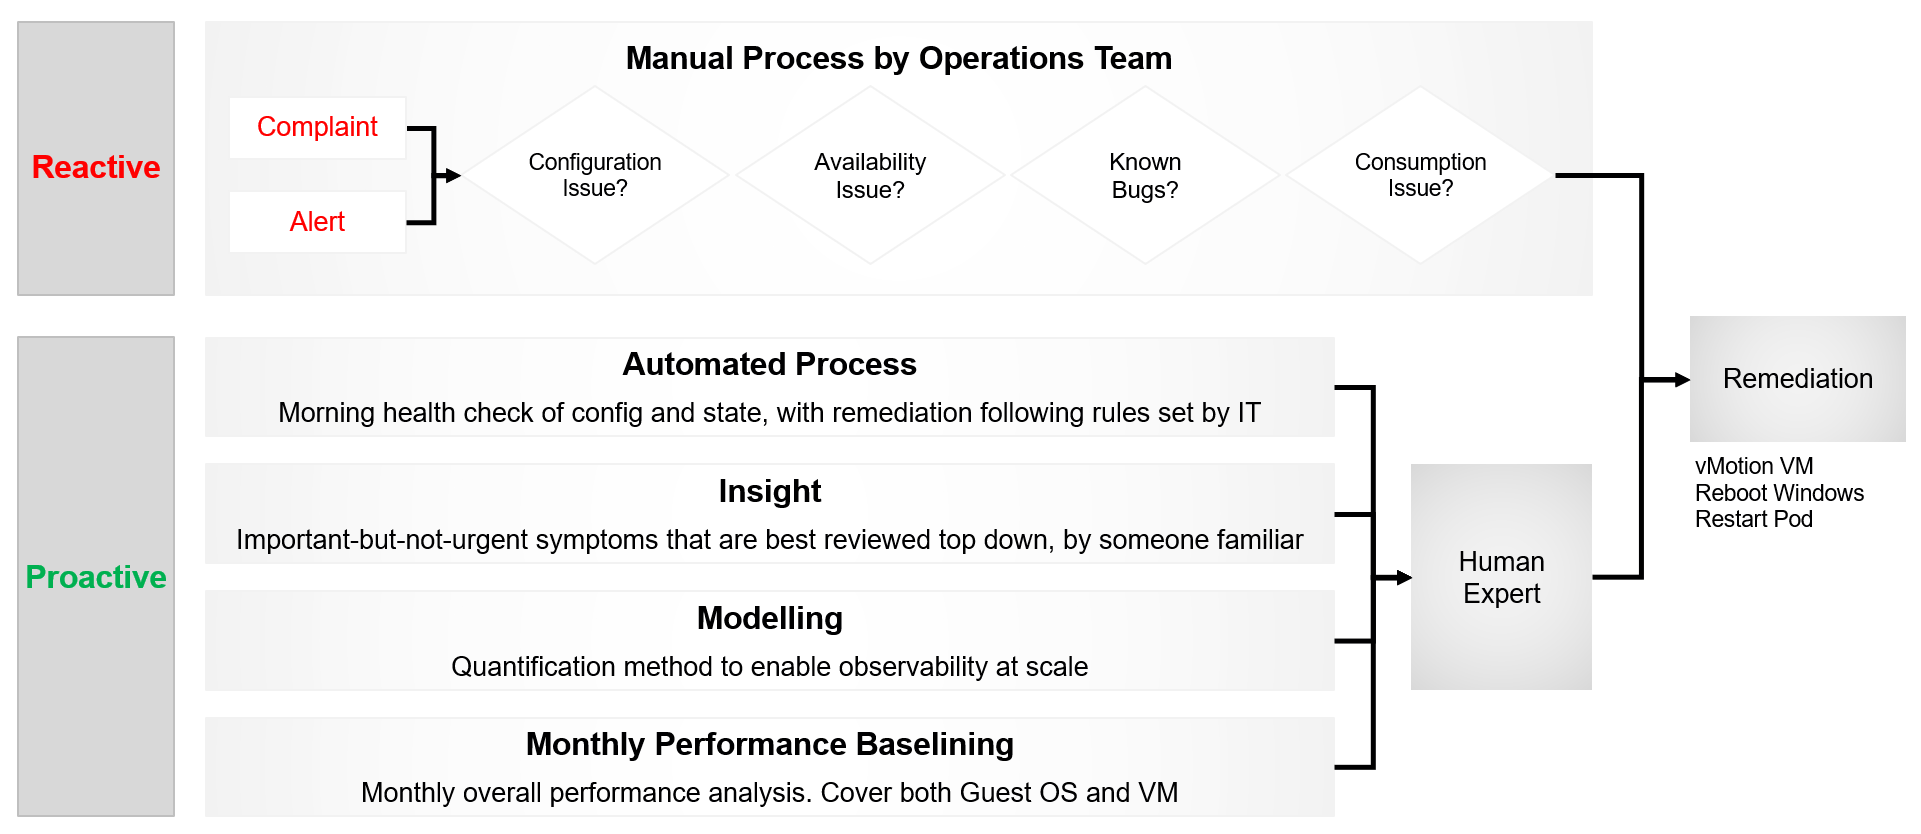
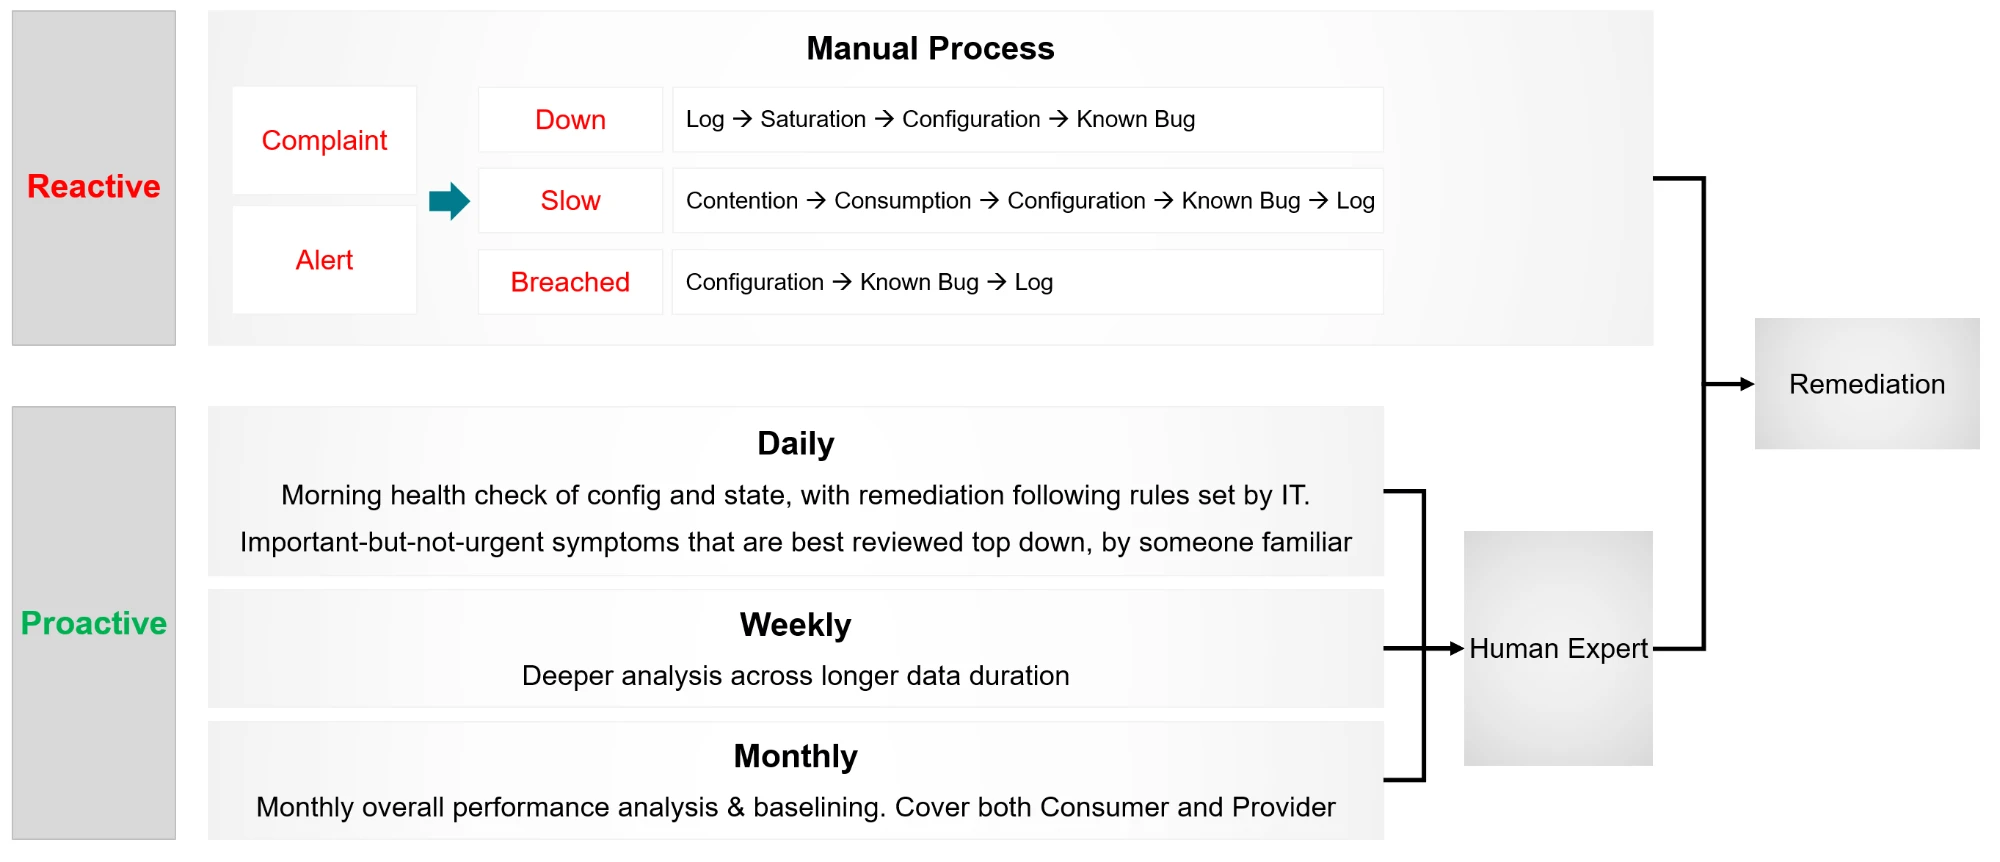
Apply Q105 c: reactive and proactive processes
Reactive starts from a complaint or an alert and handles three
problems with their pillar's order of checks: down and slow are
troubleshooting, breached is a forensic investigation. Proactive is
the health check, daily, with weekly and monthly analysis; it is a
superset of reactive. The author's updated diagram replaces the dual
track diagram; the glossary and KNOWLEDGE-ENGINEERING.md section 10
follow.

Claude-Session: https://claude.ai/code/session_01JZFwApUFw7444dpvawSydh

diff --git a/project/author-questions.md b/project/author-questions.md
@@ -183,24 +183,6 @@ Each entry has:
 
 
 
-### Q105 · Part 1 > Monitor | Troubleshoot; SP5 Framework: Process · Logs in monitoring and the length of the daily check
-- Files: [Monitoring vs troubleshooting, root cause analysis and validating a log alert](https://github.com/e1-rahabok/agent-e2/blob/main/knowledge/sp5-framework/concepts/monitoring-vs-troubleshooting.md); [Proactive operations: dual track, daily cadence, NOC screens and the VM life cycle](https://github.com/e1-rahabok/agent-e2/blob/main/knowledge/sp5-framework/concepts/proactive-operations.md).
-- Search 1: "Not required. Metrics, properties, and Event suffice."
-- Search 2: "Should take just 5 minutes"
-- Search 3: "The check must be quick, ~1 minute"
-- Search 4: "There are 3 techniques we can apply"
-- Image text (not searchable): "Daily Check (10 minutes)"; present health "Data is mostly coming from logs, not metrics".
-- Question:
-  - (a) Monitoring needs no logs, yet availability data comes mostly from logs and the daily SOP reads logs for soft errors. Is log analysis (daily, in the cadence image) part of monitoring?
-  - (b) Monitoring 5 minutes, daily check about 1 minute, timeline 10 minutes. One number?
-  - (c) 3 techniques announced, 4 listed (text) and 4 in the diagram with other names. Use the diagram names?
-- Written as now: (a) and the interval applied 2026-11-08 (monitoring-vs-troubleshooting: Logs row required, 20-second peak within the 5-minute interval, 20-second visibility for mission-critical systems); (b) applied: about 5 minutes when there is no problem; (c) the diagram's four techniques.
-- Answer: Monitoring needs log. Monitoring depends on what is being monitored. Log is streaming continuously not discrete every 5 minutes or 1 minute. Performance monitoring reports peak of 20 seconds within 5 minutes reporting interval. An exception is mission critical system where 20 seconds visibility is worth the cost of monitoring. I'll review item 105(c).
-- Answer (b), 2026-11-08: A daily check, if there is no problem, it should take a few minutes. That's why I put 5 minutes. Now, if there is a problem, logically, it can take a lot longer than that, depending on the problem.
-- Applied (b): proactive-operations (A 24-hour day, Dual track, Traps), monitoring-vs-troubleshooting (Duration row).
-- Still open: (c).
-- Restated (c), 2026-11-09: the book says "There are 3 techniques we can apply" for proactive operations, then lists 4 in the text; the dual-track diagram also has 4 but with other names (automated process, insight, modelling, monthly performance baselining). The knowledge base uses the diagram's 4 names. Correct, and is the "3" a typo for 4?
-- Answer (c):
 
 ### Q108 · Part 1 > Configuration Management > Resource Management, Share · Memory share unit and the share example
 - Files: [Resource settings: when and how](https://github.com/e1-rahabok/agent-e2/blob/main/knowledge/vsphere/object-types/vm/configuration/resource-settings-guidance.md) (sections Review: how each control affects operations, Review: share values).
@@ -473,6 +455,26 @@ Each entry has:
 - Answer:
 
 ## Resolved
+
+### Q105 · Part 1 > Monitor | Troubleshoot; SP5 Framework: Process · Logs in monitoring and the length of the daily check
+- Files: [Monitoring vs troubleshooting, root cause analysis and validating a log alert](https://github.com/e1-rahabok/agent-e2/blob/main/knowledge/sp5-framework/concepts/monitoring-vs-troubleshooting.md); [Proactive operations: dual track, daily cadence, NOC screens and the VM life cycle](https://github.com/e1-rahabok/agent-e2/blob/main/knowledge/sp5-framework/concepts/proactive-operations.md).
+- Search 1: "Not required. Metrics, properties, and Event suffice."
+- Search 2: "Should take just 5 minutes"
+- Search 3: "The check must be quick, ~1 minute"
+- Search 4: "There are 3 techniques we can apply"
+- Image text (not searchable): "Daily Check (10 minutes)"; present health "Data is mostly coming from logs, not metrics".
+- Question:
+  - (a) Monitoring needs no logs, yet availability data comes mostly from logs and the daily SOP reads logs for soft errors. Is log analysis (daily, in the cadence image) part of monitoring?
+  - (b) Monitoring 5 minutes, daily check about 1 minute, timeline 10 minutes. One number?
+  - (c) 3 techniques announced, 4 listed (text) and 4 in the diagram with other names. Use the diagram names?
+- Written as now: (a) and the interval applied 2026-11-08 (monitoring-vs-troubleshooting: Logs row required, 20-second peak within the 5-minute interval, 20-second visibility for mission-critical systems); (b) applied: about 5 minutes when there is no problem; (c) the diagram's four techniques.
+- Answer: Monitoring needs log. Monitoring depends on what is being monitored. Log is streaming continuously not discrete every 5 minutes or 1 minute. Performance monitoring reports peak of 20 seconds within 5 minutes reporting interval. An exception is mission critical system where 20 seconds visibility is worth the cost of monitoring. I'll review item 105(c).
+- Answer (b), 2026-11-08: A daily check, if there is no problem, it should take a few minutes. That's why I put 5 minutes. Now, if there is a problem, logically, it can take a lot longer than that, depending on the problem.
+- Applied (b): proactive-operations (A 24-hour day, Dual track, Traps), monitoring-vs-troubleshooting (Duration row).
+- Still open: (c).
+- Restated (c), 2026-11-09: the book says "There are 3 techniques we can apply" for proactive operations, then lists 4 in the text; the dual-track diagram also has 4 but with other names (automated process, insight, modelling, monthly performance baselining). The knowledge base uses the diagram's 4 names. Correct, and is the "3" a typo for 4?
+- Answer (c), 2026-11-09: diagram updated. Two processes. Reactive: down, slow, breached; the first two are troubleshooting, the security one is forensic investigation; performance troubleshooting uses the KPI, not the SLA. Proactive: the health check, daily, complemented by weekly and monthly; a superset of reactive.
+- Applied 2026-11-09: proactive-operations (Dual track, diagram replaced), KNOWLEDGE-ENGINEERING.md section 10, glossary (Troubleshooting).
 
 ### Q101 · Part 1 > SP5 Framework: Pillars · Relationship lines and what is troubleshot
 - Files: [SP5 framework and the five pillars of operations: scope, relationships, non-pillars](https://github.com/e1-rahabok/agent-e2/blob/main/knowledge/sp5-framework/concepts/overview.md) (sections Relationships, Capacity); [Proactive operations: dual track, daily cadence, NOC screens and the VM life cycle](https://github.com/e1-rahabok/agent-e2/blob/main/knowledge/sp5-framework/concepts/proactive-operations.md) (section Who does which day).

diff --git a/knowledge/sp5-framework/concepts/proactive-operations.md b/knowledge/sp5-framework/concepts/proactive-operations.md
@@ -16,17 +16,21 @@
 - A major technology upgrade needs planning and redesign: the cycle starts again.
 
 ## Dual track: proactive first, reactive as fallback
-- Reactive track: starts after an alert, an incident (outage, SLA breached) or a human complaint. A manual process by the operations team: configuration issue? availability issue? known bug? consumption issue? Then remediation.
+- Two processes: reactive and proactive (author, 2026-11-09).
+- Reactive: starts from a complaint or an alert. A manual process for three types of problem, each with its own order of checks, the what before the why:
+  - Down: log, saturation, configuration, known bug.
+  - Slow: contention, consumption, configuration, known bug, log. Read the KPI, not the SLA.
+  - Breached (compromised): configuration, known bug, log.
+- Down and slow are troubleshooting. Breached is a forensic investigation, not troubleshooting.
+- The three orders are the same as the availability, performance and security steps of the health check: reactive enters one pillar directly; proactive walks all four.
+- Proactive: the health check (its four questions in order: availability, performance, security, capacity). It is a superset of reactive, because nobody knows yet whether there is a problem.
+  - Daily: a morning health check of configuration and state, with remediation by rules IT sets; important but not urgent symptoms, reviewed top down by someone who knows the environment.
+  - Weekly: deeper analysis over a longer data range.
+  - Monthly: overall performance analysis and baselining, covering consumer and provider.
+- Proactive findings go to a human expert, who decides the remediation; reactive findings go straight to remediation. Remediation examples: vMotion a VM, reboot Windows, restart a pod.
 - Known bugs are mostly configuration issues: an older version or incompatible settings.
-- Proactive track: focuses on insight. The system has not detected a known problem; typically this is anomaly detection.
 - Anomaly detection by mathematics alone gives false positives: it lacks the real-world business context. What looks abnormal can be normal, and the reverse (a month-end batch, a planned migration).
-- Proactive track, four techniques feeding a human expert, who decides the remediation:
-  - automated process: a morning health check of configuration and state, with remediation by rules IT sets;
-  - insight: important but not urgent symptoms, reviewed top down by someone who knows the environment;
-  - modelling: quantification that makes observability work at scale;
-  - monthly performance baselining: overall performance analysis covering Guest OS and VM.
-- Remediation examples: vMotion a VM, reboot Windows, restart a pod.
-![Reactive: complaint or alert → manual process (configuration issue? availability issue? known bugs? consumption issue?) → remediation. Proactive: automated morning health check with rule-based remediation, insight, modelling, monthly performance baselining → human expert → remediation (vMotion VM, reboot Windows, restart pod)](images/reactive-vs-proactive-operations-dual-track-diagram.png)
+![Reactive: complaint or alert → manual process: Down (log → saturation → configuration → known bug), Slow (contention → consumption → configuration → known bug → log), Breached (configuration → known bug → log) → remediation. Proactive: Daily (morning health check of configuration and state with rule-based remediation; important-but-not-urgent symptoms reviewed top down), Weekly (deeper analysis across longer data), Monthly (overall performance analysis and baselining of consumer and provider) → human expert → remediation](images/reactive-vs-proactive-operations-dual-track-diagram.png)
 - Troubleshooting cannot be eliminated; regular health checks with automatic remediation reduce it.
 - The checks must cover every manual check done today: automate the whole checklist.
 - The rules are finite and known: the logic experts use to troubleshoot performance can be automated. Most remediation is moving VMs out of a cluster, which needs no AI and can be automated too.
@@ -170,7 +174,7 @@ corrections:
 - 'Daily check length: author answer Q105 (b), 2026-11-08: about 5 minutes when there is no problem; a problem makes it longer.'
 - 'Sections ''Dual track'' and ''Day-to-day order'': author answer Q104 (2026-11-08): reactive starts after an alert, an incident or a complaint; proactive is insight, typically anomaly detection, which gives false positives without business context; configuration is a drill-down; known bugs are configuration. The example in brackets (month-end batch, planned migration) is Claude''s.'
 review_notes:
-- 'Section ''Dual track'': the book says 3 techniques and lists 4 (daily optimization, insight review, performance quantification, monthly baselining); the diagram names them automated process, insight, modelling, monthly performance baselining. Written from the diagram. Q105, Q107.'
+- 'Section ''Dual track'': rewritten from the author''s updated diagram and explanation (Q105 c, 2026-11-09): reactive (down, slow, breached) and proactive (daily, weekly, monthly). Modelling is no longer listed as a proactive technique.'
 - 'Daily check length: the book gives about 1 minute (text), 10 minutes (timeline image), 5 minutes (monitoring table). Author answer Q105 (b), 2026-11-08: a few minutes, about 5, when there is no problem; longer when there is a problem, depending on the problem.'
 - 'Section ''Who does which day'': only availability and performance are troubleshot; security is a forensic investigation; compliance is finding the setting that differs from the desired configuration (author, Q101 d, 2026-11-09).'
 - 'Section ''NOC live screen and daily check'': the book says insight and alerts were covered in Part 1; this is Part 1 (Q107).'

diff --git a/KNOWLEDGE-ENGINEERING.md b/KNOWLEDGE-ENGINEERING.md
@@ -351,7 +351,8 @@ threshold = (metric, object, instance reading, sample interval, time window) -> 
   - Model: how one pillar of one object is quantified into a number and a decision (capacity model, availability model, security model). Files in `vsphere/object-types/<object>/models/` and `sp5-framework/capacity/`.
   - KPI: a model of performance only (the P in KPI). Files in `vsphere/object-types/<object>/kpis/`, plus `guest-os/system/metrics/guest-os-performance`.
   - Health check: the what. Is the object healthy, at risk, or wasteful? Read in the order of `sp5-framework/concepts/health-risk-efficiency`. Monitoring belongs here.
-  - Troubleshooting: the why. Done only after an object fails a health check; a user complaint counts as a failed health check. Troubleshooting is part of the health check, always after it.
+  - Troubleshooting: the why, in the reactive process. It starts from a complaint, an alert, or a failed health check step. Two types only: down (availability) and slow (performance). A security breach gets a forensic investigation, not troubleshooting. Each type uses the same order of checks as its pillar in the health check (author, 2026-11-09).
+  - Two processes: reactive (troubleshooting, forensic investigation) and proactive (the health check, daily, with weekly and monthly analysis). The health check is a superset of reactive, because nobody knows yet whether there is a problem.
   - Not used: diagnosis (troubleshooting), what to monitor (health check), verification (health check).
 - A health check step names the KPI or model, its band, and the flow to open when it fails: `→ <troubleshooting id>`.
 - Order (author, 2026-11-09): is it up (availability: log, saturation, configuration, known bug), is it fast (performance: contention, consumption, configuration, known bug, log), is it secure (security: configuration, known bug, log), will it be enough (capacity: consumption, configuration, contention, inventory). Within each pillar the what comes before the why: establish the fact, then explain it; do not jump to a conclusion. Known bugs are checked per pillar, because a bug can cause an outage, slowness or a security loophole. Efficiency is part of capacity. Contention is part of performance. Every performance troubleshooting flow checks configuration.

diff --git a/project/plan.md b/project/plan.md
@@ -28,6 +28,7 @@ Why the mission is possible: `MISSION.md`. Last review: [project/review-2026-11-
 - Earlier list: screen library and screenshot read-back (1.1); data files (1.2); alert definitions (1.2): Iwan Rahabok first overhauls the shipped alerts in VCF Operations ([VMW-Alerts-Overhaul](https://github.com/e1-rahabok/VMW-Alerts-Overhaul): 1,193 alert definitions, 1,951 symptoms; analysis not finished), then the definitions become a YAML catalog with a harness lookup tool, measured on questions that need an exact definition; read-only VCF Operations connection; vSAN, NSX, Kubernetes, Linux content.
 
 ## Decisions (latest first)
+- 2026-11-09, author, Q105 c: two processes. Reactive (complaint or alert): down, slow (troubleshooting, KPI not SLA), breached (forensic investigation), each with its pillar's order of checks. Proactive: the health check (superset), daily, with weekly and monthly analysis. Replaces 'a complaint is a failed health check'. Open: align the VM slow flow to the slow order (logs and known bugs missing).
 - 2026-11-09, author, Q101 a-b: availability impacts capacity and performance (flapping on and off, or between passive and active nodes); pillar relationship diagram replaced.
 - 2026-11-09, author: Q097 (Co-stop out of SLA and SLI, not KPI; memory contention as time), Q098 (contract compliance 99.95%, KPI 100%, maintenance window excluded), Q100 (no size cap by socket: NUMA is inside the socket), Q101 c-d (only availability and performance are troubleshot; security is forensics, compliance is drift), Q106 (SLA never at 20 seconds; KPI at 20 seconds, stricter; alerts on KPI). The author's direct commit used a Markdown formatter: padded tables broke two catalog quotes and blank lines broke the metadata parser. Fixed: harness/kb.py tolerates blank lines; new project/tools/tidy.py undoes table padding (lint checks it).
 - 2026-11-09, author: the security, log and known-bug steps of the VM, ESXi and cluster health checks stay after 1.0; the health checks keep their current steps, marked as not checked in 1.0.

diff --git a/knowledge/glossary.md b/knowledge/glossary.md
@@ -82,7 +82,7 @@ What Agent E2 needs to read the user's words and answer in one consistent vocabu
 | Model | How one pillar of one object is quantified into a number and a decision. Capacity model, availability model, security model. Example: Cluster Consumption and Cluster Risk decide, with Cluster Performance, whether a cluster is closed.`vsphere/object-types/cluster/models/cluster-consumption` | - |
 | KPI | Key performance indicator: a model of performance only, the P in KPI. One 0-100% score per object: VM, Guest OS, ESXi and Cluster Performance.`sp5-framework/performance/kpi-vs-sla` | Key Performance Indicator |
 | Health check | Check of one object, in the order availability, performance, security, capacity, with configuration as the drill-down. The what: is the object healthy, at risk, or wasteful. A failed step opens a troubleshooting flow.`vsphere/object-types/cluster/health-check/cluster-health-check` | what to monitor, monitoring checklist, verification, daily check |
-| Troubleshooting | Finding why an object failed a health check, and the fix. Always after the health check, never instead of it. A user complaint is a failed health check. Each order of checks is a flow. Only availability and performance are troubleshot: security is a forensic investigation, compliance is drift detection. `sp5-framework/concepts/monitoring-vs-troubleshooting` | diagnosis, diagnose, root cause analysis, triage |
+| Troubleshooting | The reactive process for an object that is down or slow: why, and the fix. Starts from a complaint, an alert or a failed health check step, and follows the order of checks of its pillar. A security breach gets a forensic investigation instead; compliance is drift detection. `sp5-framework/concepts/proactive-operations` | diagnosis, diagnose, root cause analysis, triage |
 
 ## Confusable pairs
 

diff --git a/knowledge/vsphere/object-types/vm/health-check/vm-health-check.md b/knowledge/vsphere/object-types/vm/health-check/vm-health-check.md
@@ -6,7 +6,7 @@
 
 ## Symptom
 - None. A scheduled or on-demand check of one VM: the what. A failed step opens a troubleshooting flow: the why.
-- A user complaint ("the VM is slow") counts as a failed health check: start at `sp5-framework/performance/troubleshooting/vm-slow`.
+- A user complaint ("the VM is slow") is reactive: skip the health check and start at `sp5-framework/performance/troubleshooting/vm-slow`.
 
 ## Flow
 ```mermaid
